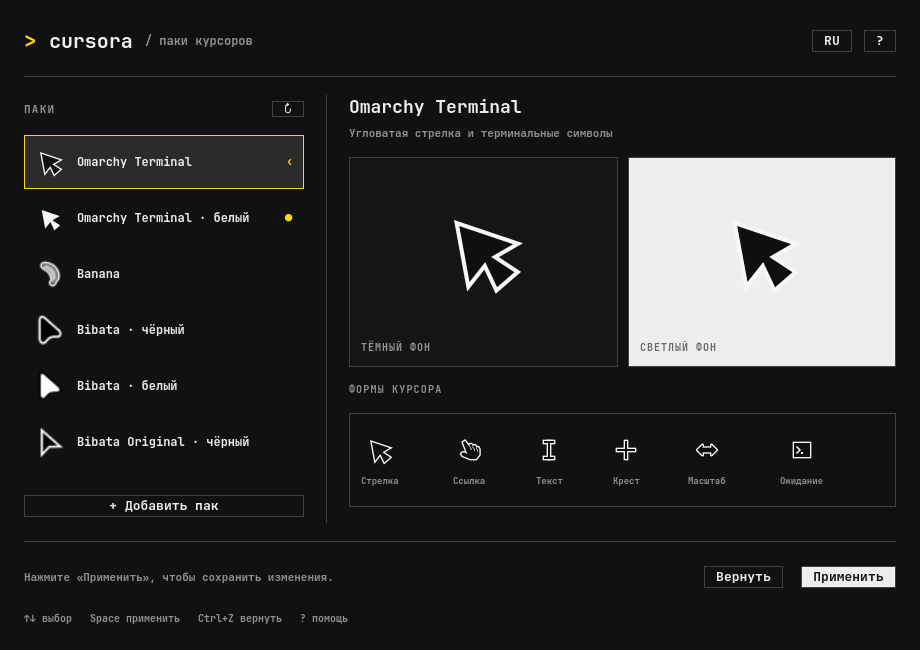
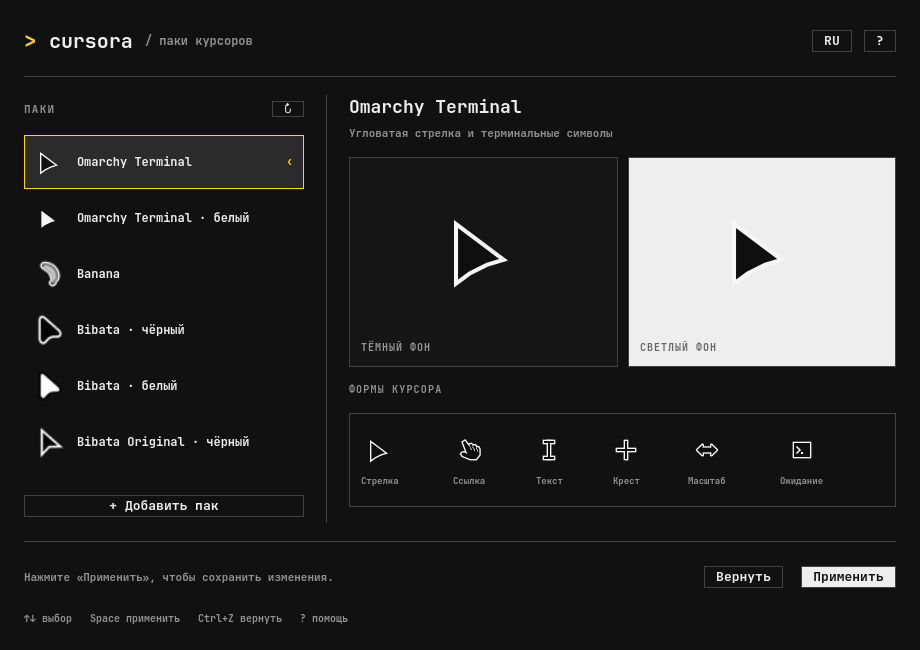
Simplify the Omarchy pointer to a sharp tailless shape

diff --git a/tests/check_packs.py b/tests/check_packs.py
@@ -52,7 +52,7 @@ def frames(data):
     return result
 
 def pointer_asymmetry(alpha, width, xhot, yhot):
-    axis_x, axis_y = 13, 15
+    axis_x, axis_y = 1, 2
     length_squared = axis_x**2 + axis_y**2
     diagonal = (axis_x**2 - axis_y**2) / length_squared
     cross = 2 * axis_x * axis_y / length_squared
@@ -126,9 +126,9 @@ for theme, pack in packs.items():
                     visible = [i for i, a in enumerate(alpha) if a >= 128]
                     columns = [i % width for i in visible]
                     rows = [i // width for i in visible]
-                    assert nominal * 9 // 10 <= max(columns) - min(columns) + 1 <= nominal, (
+                    assert nominal * 7 // 10 <= max(columns) - min(columns) + 1 <= nominal * 5 // 6, (
                         f'Unexpected arrow width at {nominal}px')
-                    assert max(rows) - min(rows) + 1 >= nominal * 23 // 24, f'Arrow is too short at {nominal}px'
+                    assert max(rows) - min(rows) + 1 >= nominal * 9 // 10, f'Arrow is too short at {nominal}px'
                     if nominal == native * 4:
                         assert pointer_asymmetry(alpha, width, xhot, yhot) < .04, f'Asymmetric arrow in {cursor}'
                 elif cursor.name in hand_shapes or cursor.name.endswith('-resize'):

diff --git a/src/omarchycursor.cpp b/src/omarchycursor.cpp
@@ -176,14 +176,12 @@ QImage render(const Kind &kind, int size, int frame, int padding, const Palette 
     QPainterPath path;
     if (kind == "left_ptr") {
         const QPointF tip{2, 2};
-        const QPointF axis = QLineF(0, 0, 13, 15).unitVector().p2();
+        const QPointF axis = QLineF(0, 0, 1, 2).unitVector().p2();
         const QPointF across{axis.y(), -axis.x()};
-        const QPointF shoulders = tip + axis * 20.9;
-        const QPointF neck = tip + axis * 19.15;
-        const QPointF end = tip + axis * 27.7;
-        // Use the same angular shoulder and flared tail on both sides.
-        line(path, {tip, shoulders + across * 12.3, neck + across * 3.2, end + across * 5.6,
-                    end - across * 5.6, neck - across * 3.2, shoulders - across * 12.3});
+        const QPointF shoulders = tip + axis * 20.15;
+        const QPointF neck = tip + axis * 18.95;
+        line(path, {tip, shoulders + across * 10.075, neck + across * 3.15,
+                    neck - across * 3.15, shoulders - across * 10.075});
         path.closeSubpath();
         drawArrow(painter, path, palette);
     } else if (kind == "hand2") {

diff --git a/src/main.cpp b/src/main.cpp
@@ -27,7 +27,7 @@ int main(int argc, char *argv[]) {
     }
     QGuiApplication app(argc, argv);
     app.setApplicationName("cursora");
-    app.setApplicationVersion("0.5.4");
+    app.setApplicationVersion("0.5.5");
     app.setDesktopFileName("cursora");
     app.setWindowIcon(QIcon::fromTheme("cursora"));
     QQuickStyle::setStyle("Material");
